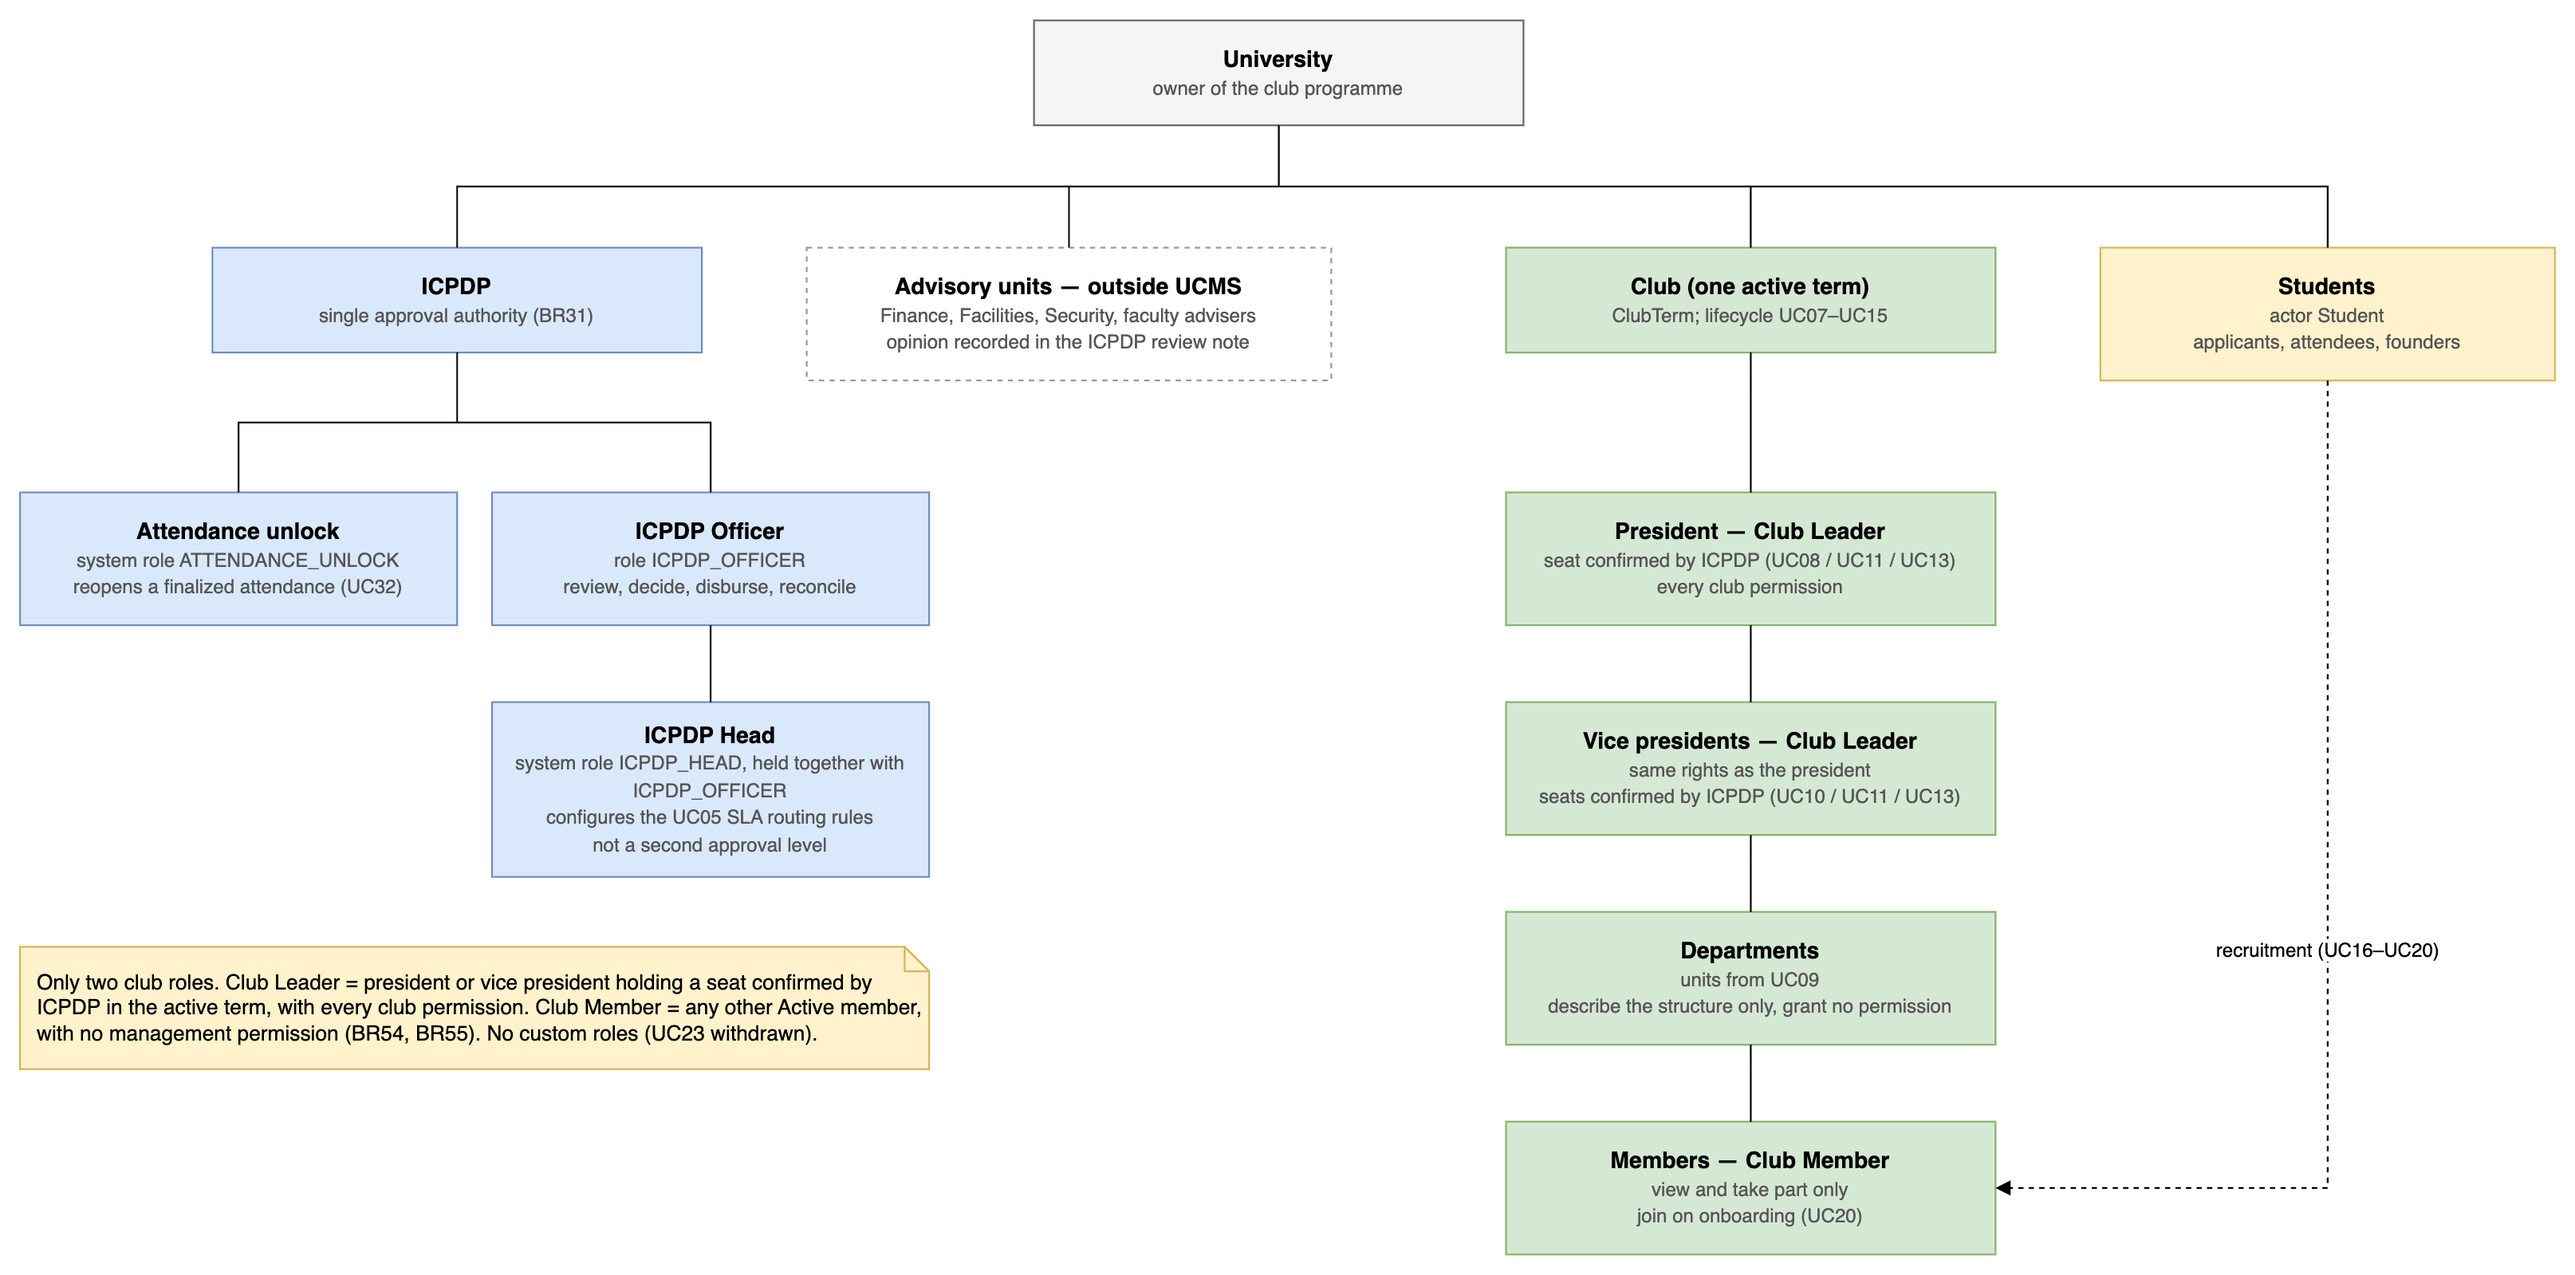
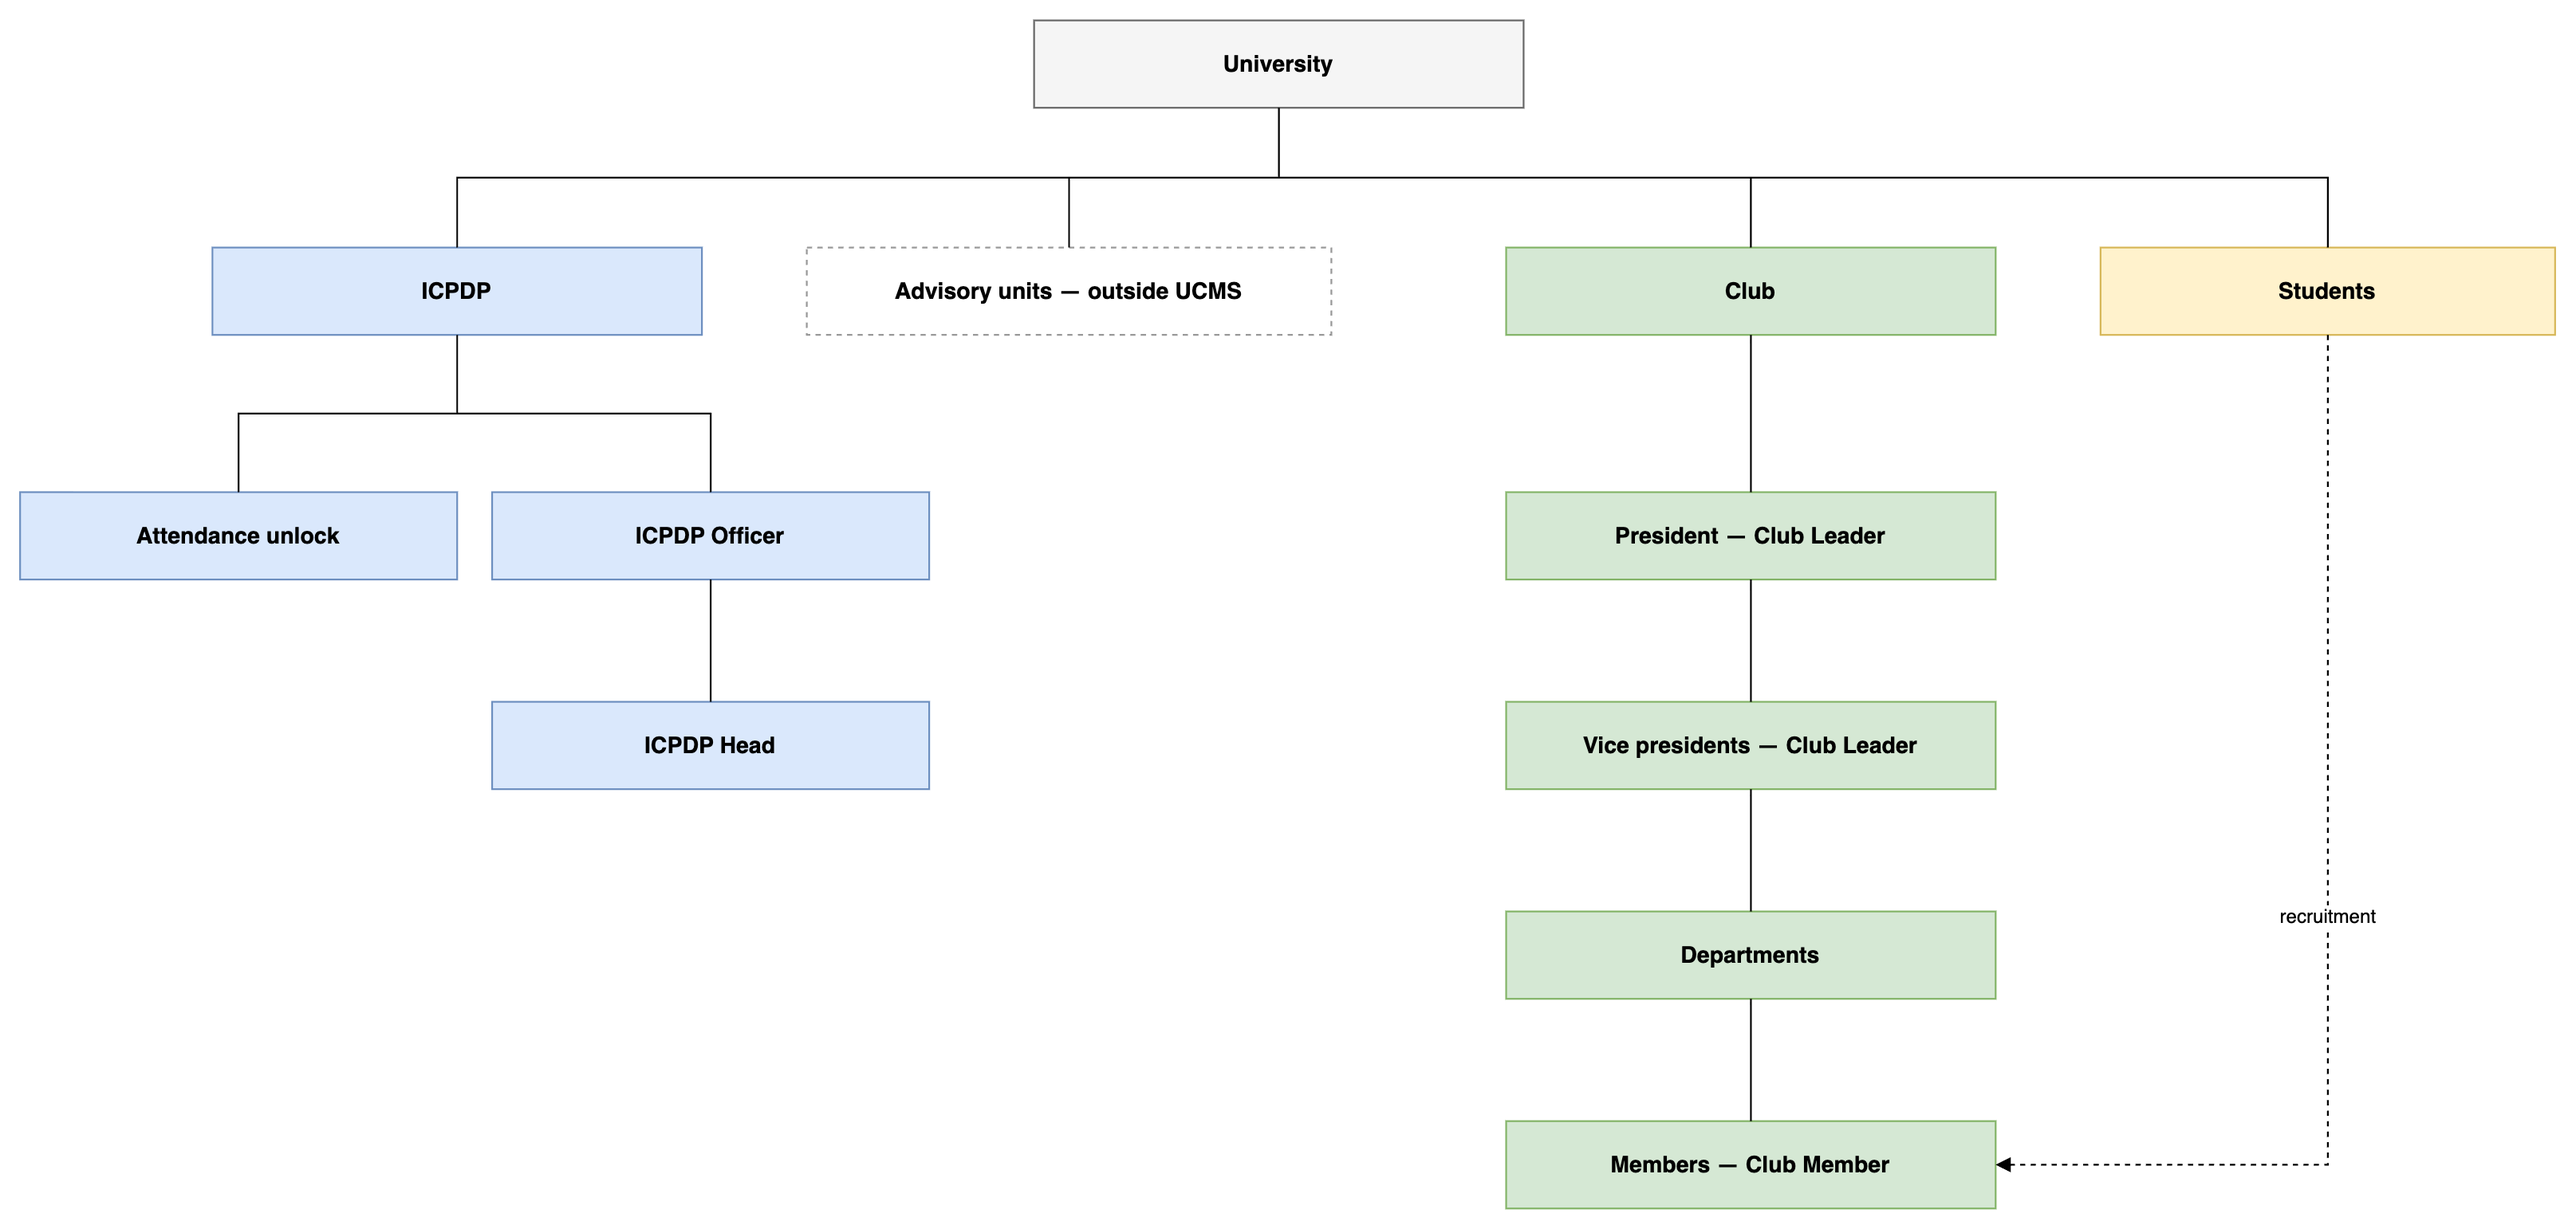
docs(diagrams): keep only block names in the organization structure

diff --git a/docs/03-diagrams/README.md b/docs/03-diagrams/README.md
@@ -328,3 +328,4 @@ Mỗi hình thoi vẫn có đúng 1 cạnh vào và 2 cạnh ra.
 - **Bỏ tiêu đề trong ảnh (2026-11-24):** mọi trang sơ đồ không còn dòng tiêu đề ở góc trên (tên sơ đồ nằm ở caption của report); database schema bỏ ô note chú thích ký hiệu. Script: `docs-qa/diagram-gen/strip_titles.py`.
 - **State diagram Event (2026-11-24):** gỡ khối vòng đời sự kiện nội bộ CLB (`DRAFT → CREATED → PUBLIC → ONGOING → FINISH`) vì tính năng đã bị gỡ khỏi code ngày 19/11/2026 (commit `5efb7fe`).
 - **Context diagram (2026-11-24):** bỏ luồng `Internal event records` (UCMS → ICPDP) và đổi nhãn `Event proposals & internal events` thành `Event proposals`, vì sự kiện nội bộ CLB đã gỡ khỏi code; còn 45 luồng.
+- **Organization structure (2026-11-24):** bỏ ô note vàng và các dòng mô tả phụ trong từng khối, chỉ giữ tên khối; nhãn mũi tên còn `recruitment`.
